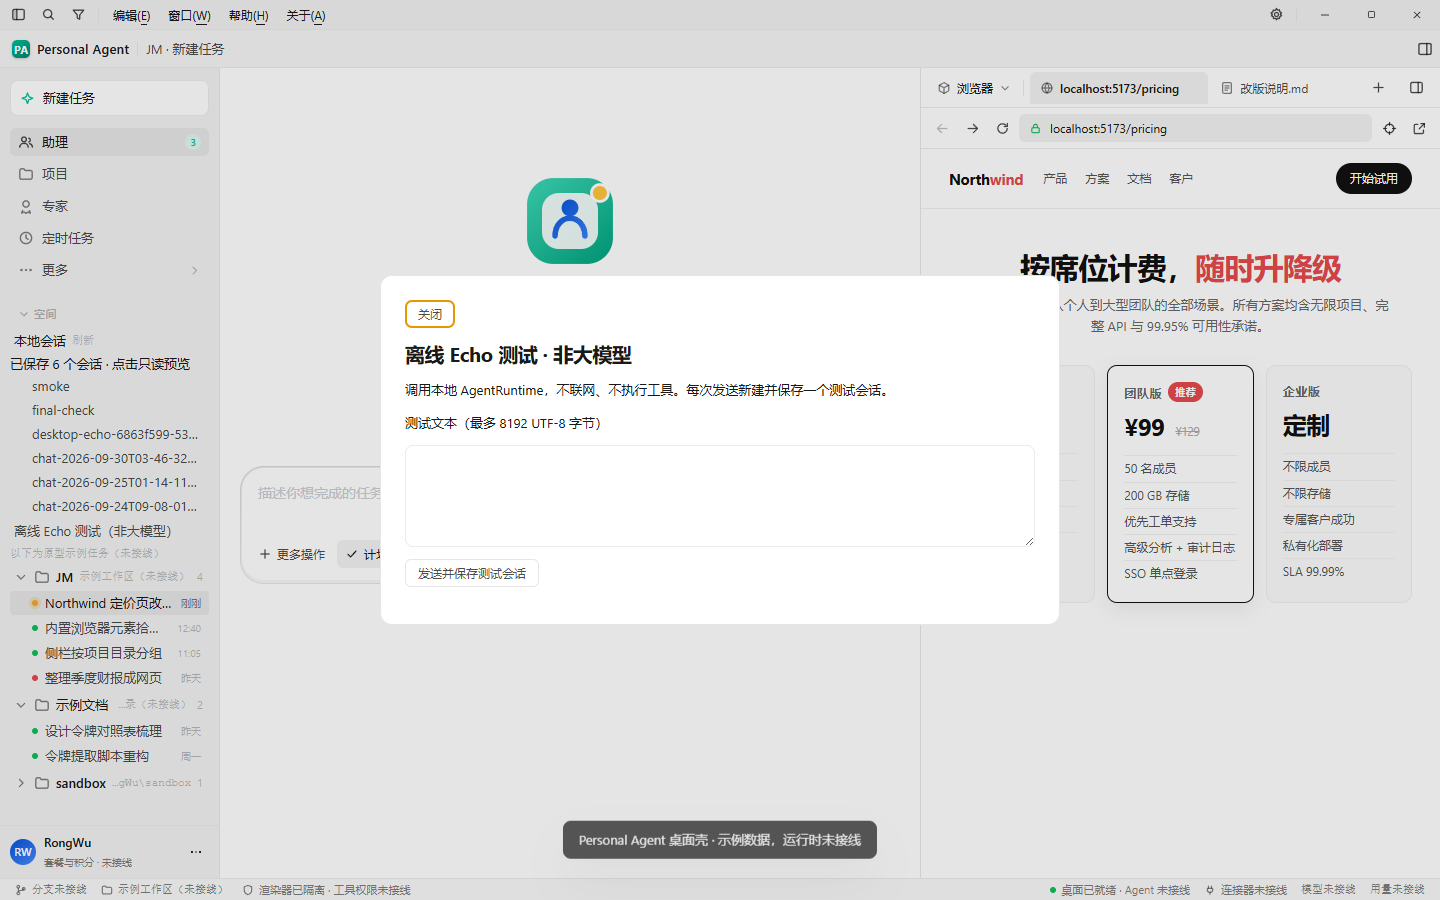
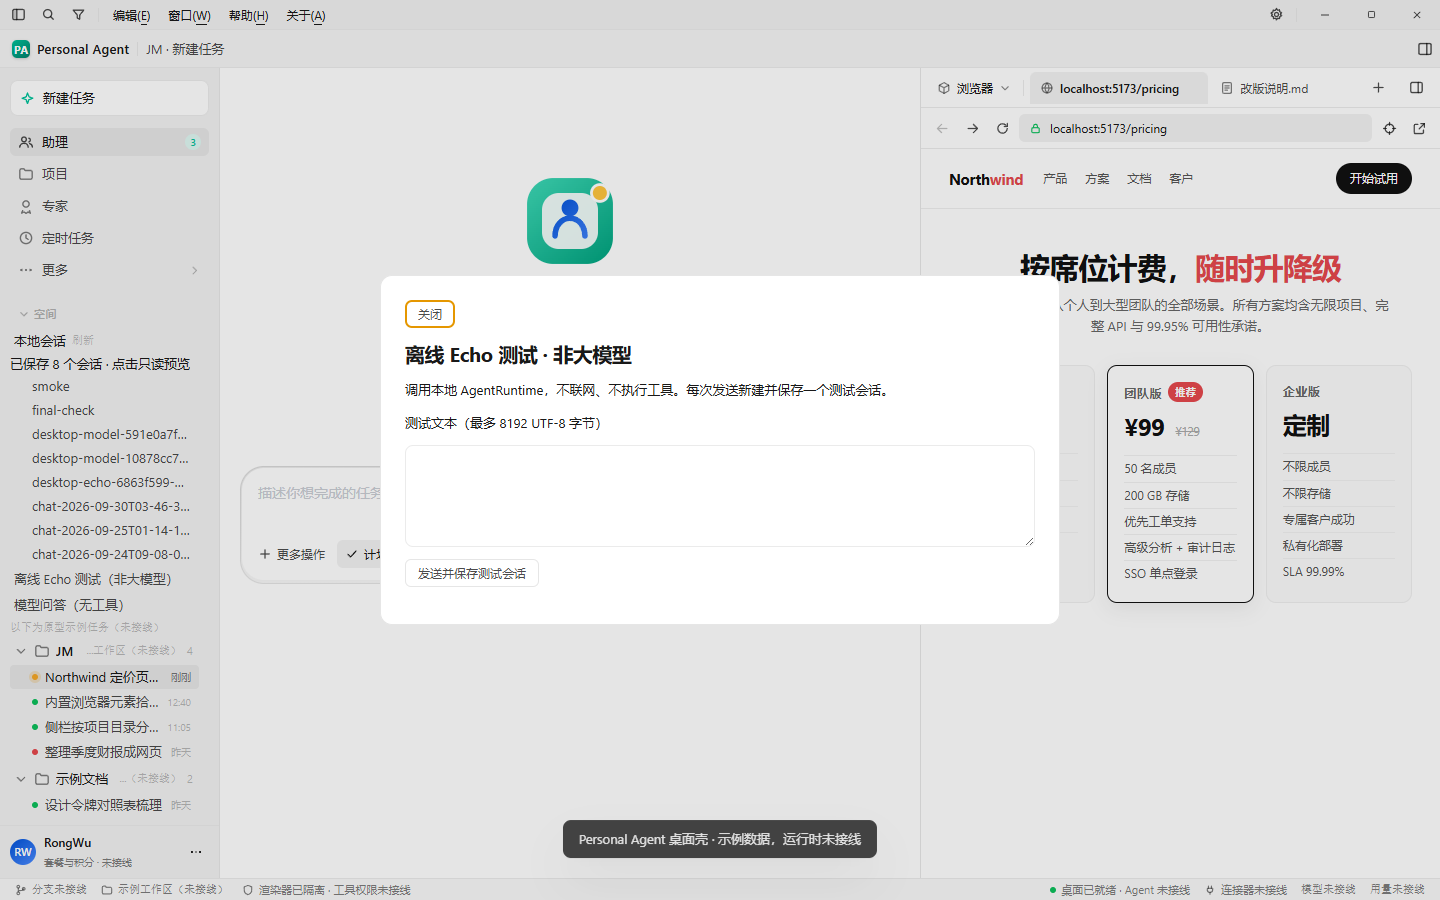
docs(desktop): document current capabilities and verify prototype controls

Changed region(s): [[0.0, 0.4667, 0.1562, 0.9022], [0.4062, 0.9022, 0.5938, 0.9644]]

diff --git a/docs/panel-prototype/README.md b/docs/panel-prototype/README.md
@@ -1,4 +1,68 @@
-# 面板原型（M5，设计稿，非实现）
+# Personal Agent 桌面面板
+
+## 当前可用版本（下方 v1–v8 为历史设计记录）
+
+当前产品入口是独立 Electron 客户端，不是本目录早期静态 mockup。
+以操作员提供的 `D:\WorkBuddyXM\JM\wb-client.html` 为基座；保留入口与标签，
+不因后端缺失而删除控件。品牌改为 Personal Agent，原型数据与未接线动作明确提示。
+
+### 启动
+
+在项目根目录运行（Node >=22.12）：
+
+```powershell
+npm.cmd ci
+npm.cmd run build
+npm.cmd run start:desktop
+```
+
+本机默认 Electron 路径曾启动失败；可按本文下方说明，通过
+`PERSONAL_AGENT_ELECTRON` 显式指定同版本完整 Electron 44.5.1 运行时。
+不要禁用沙箱。当前是源码开发运行方式，尚无安装包。
+
+### 已接入的独立入口
+
+- 窗口控制、版本和隔离信息：真实宿主数据。
+- **本地会话**：读取宿主 `PERSONAL_AGENT_HOME`（默认项目 `.personal-agent`），
+  刷新并点击只读历史；上限 1 MiB、最后 200 条，不重放工具。
+- **离线 Echo 测试**：不联网，不是大模型；通过 AgentRuntime 保存新会话。
+- **模型问答（无工具）**：每次新会话，先显示地址/模型，再点击确认发送。
+  密钥不返回页面；每次确认仅用一次，5 分钟过期；拒绝旧预览和重定向。
+  最多输入 8192 UTF-8 字节、输出 2048 token、等待 60 秒。
+  文本、宿主长期约束及运行时提示会发往所示服务，可能计费。
+  关闭弹窗不取消请求；失败可能留下部分日志，不自动重试。
+
+模型配置复用 CLI 的 `loadProvider`。推荐在启动桌面的宿主环境中设置完整的
+`PERSONAL_AGENT_BASE_URL`、`PERSONAL_AGENT_MODEL`、`PERSONAL_AGENT_API_KEY` 三项；
+不要把密钥写进源码或截图。CLI 已保存的完整配置也可读取；只保存地址和模型、
+未保存密钥的配置无法直接用于桌面。环境配置不能与文件里的密钥拼接。
+配置预览不是连通性证明；遇到失败先查历史，避免重复收费。
+
+普通首页/聊天发送仍是本窗口原型展示，不会保存或调用模型；模型问答请用独立入口。
+工具、流式逐字显示、取消请求、桌面配置编辑、工作区选择、设置持久化及其他原型后端
+尚未接入。CLI 的工具能力不等于桌面已经具备。原型侧栏/浏览器/终端示例也不是真实任务。
+
+### 可复验的证据与限制
+
+```powershell
+npm.cmd test
+# 先启动桌面；调试端口仅用于本机验收，平时不要开启
+npm.cmd run start:desktop -- --remote-debugging-address=127.0.0.1 --remote-debugging-port=9224
+# 另一终端执行；可省略最后一个参数，此时不对比外部原型
+node scripts/verify-desktop.cjs D:\WorkBuddyXM\JM\wb-client.html
+```
+
+`PA_VERIFY_NO_SCREENSHOTS=1` 可只运行断言而不改截图。验收脚本会刷新桌面，
+应在没有请求运行时使用；不会发送模型请求、读取历史正文或启动替代 Web 服务。
+已核对原型具名按钮/输入框均保留，5 主导航、8 子入口、4 面板，以及 1440/800 宽度
+弹窗边界、Escape 关闭和渲染进程 Node 隔离。不是全原型逐像素一致或全部交互的证明。
+模型链路已用真实 Electron + 本机 HTTP 模拟服务验过确认发送及历史回读；
+真实云端模型未在此次桌面验收中调用。全量基线：792 项，791 通过、1 跳过。
+截图见 [宽屏模型弹窗](acceptance/model-1440.png)、[窄屏模型弹窗](acceptance/model-800.png)。
+
+---
+
+# 历史面板原型（以下状态只对应各历史版本）
 
 **状态：静态 HTML mockup，零依赖，无真实数据接线。** 目的是先确认信息架构和布局，
 再决定是否往下做真实的 M5（数据源、IPC/HTTP 协议、状态管理都还没定）。
